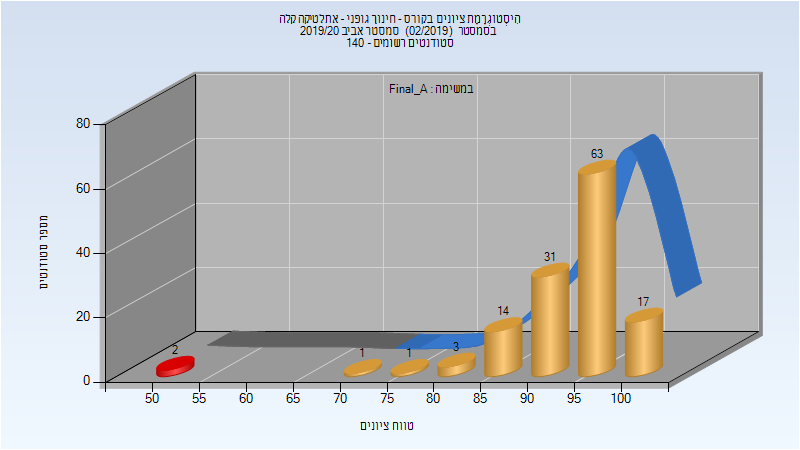
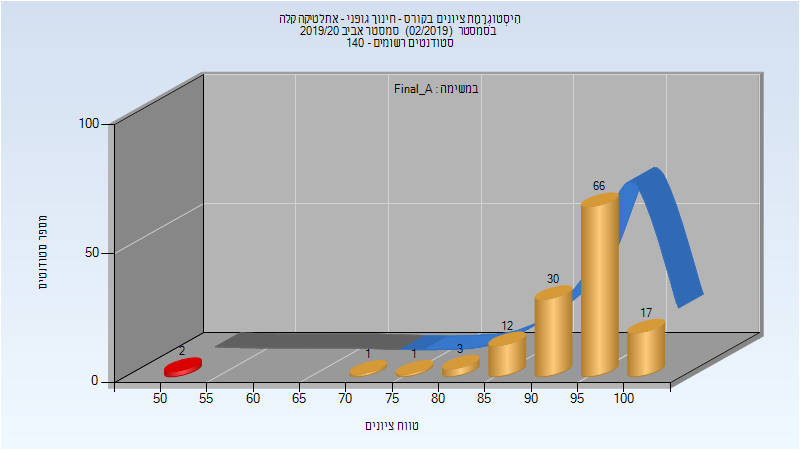
Deploy michael-maltsev/technion-histograms to github.com/michael-maltsev/technion-histograms.git:gh-pages

diff --git a/324513/index.html b/324513/index.html
@@ -155,5 +155,88 @@
 </tr>
 </tbody>
 </table>
+<h2>אביב 2020</h2>
+<table>
+<thead>
+<tr>
+<th>איש סגל</th>
+<th>תפקיד</th>
+</tr>
+</thead>
+<tbody>
+<tr>
+<td>סיבוני שרה</td>
+<td>מרצה - אחראי מקצוע</td>
+</tr>
+<tr>
+<td>בן ענת רוחמה</td>
+<td>סגל מנהלי - עם הרשאות מרצה אחראי</td>
+</tr>
+<tr>
+<td>הראל אילנה</td>
+<td>סגל מנהלי - עם הרשאות מרצה אחראי</td>
+</tr>
+<tr>
+<td>איסמן ליסה</td>
+<td>סגל מנהלי - עם הרשאות מרצה אחראי</td>
+</tr>
+<tr>
+<td>בורנשטיין יעל</td>
+<td>סגל מנהלי - עם הרשאות מרצה אחראי</td>
+</tr>
+</tbody>
+</table>
+<h3>סופי מועד א'</h3>
+<p><img src="201902/Final_A.png" alt="201902 Final_A" /></p>
+<table>
+<thead>
+<tr>
+<th>סטודנטים</th>
+<th>עברו/נכשלו</th>
+<th>אחוז עוברים</th>
+<th>ציון מינימלי</th>
+<th>ציון מקסימלי</th>
+<th>ממוצע</th>
+<th>חציון</th>
+</tr>
+</thead>
+<tbody>
+<tr>
+<td>17</td>
+<td>17/0</td>
+<td>100</td>
+<td>97</td>
+<td>100</td>
+<td>98.118</td>
+<td>98</td>
+</tr>
+</tbody>
+</table>
+<h3>סופי</h3>
+<p><img src="201902/Finals.png" alt="201902 Finals" /></p>
+<table>
+<thead>
+<tr>
+<th>סטודנטים</th>
+<th>עברו/נכשלו</th>
+<th>אחוז עוברים</th>
+<th>ציון מינימלי</th>
+<th>ציון מקסימלי</th>
+<th>ממוצע</th>
+<th>חציון</th>
+</tr>
+</thead>
+<tbody>
+<tr>
+<td>17</td>
+<td>17/0</td>
+<td>100</td>
+<td>97</td>
+<td>100</td>
+<td>98.118</td>
+<td>98</td>
+</tr>
+</tbody>
+</table>
   </body>
 </html>

diff --git a/394805/index.html b/394805/index.html
@@ -856,8 +856,34 @@
 <td>98</td>
 <td>53</td>
 <td>100</td>
-<td>93.78</td>
-<td>95.5</td>
+<td>93.947</td>
+<td>96</td>
+</tr>
+</tbody>
+</table>
+<h3>סופי</h3>
+<p><img src="201902/Finals.png" alt="201902 Finals" /></p>
+<table>
+<thead>
+<tr>
+<th>סטודנטים</th>
+<th>עברו/נכשלו</th>
+<th>אחוז עוברים</th>
+<th>ציון מינימלי</th>
+<th>ציון מקסימלי</th>
+<th>ממוצע</th>
+<th>חציון</th>
+</tr>
+</thead>
+<tbody>
+<tr>
+<td>131</td>
+<td>129/2</td>
+<td>98</td>
+<td>53</td>
+<td>100</td>
+<td>93.939</td>
+<td>96</td>
 </tr>
 </tbody>
 </table>

diff --git a/046746/index.html b/046746/index.html
@@ -142,7 +142,7 @@
 <td>91</td>
 <td>37</td>
 <td>97.5</td>
-<td>76.612</td>
+<td>76.66</td>
 <td>79.5</td>
 </tr>
 </tbody>

diff --git a/324513/README.md b/324513/README.md
@@ -44,3 +44,29 @@
 | ---- | ---- | ---- | ---- | ---- | ---- | ---- |
 | 21 | 21/0 | 100 | 95 | 98 | 97.476 | 98 |
 
+## אביב 2020
+
+| איש סגל | תפקיד |
+| ---- | ---- |
+| סיבוני שרה | מרצה - אחראי מקצוע |
+| בן ענת רוחמה | סגל מנהלי - עם הרשאות מרצה אחראי |
+| הראל אילנה | סגל מנהלי - עם הרשאות מרצה אחראי |
+| איסמן ליסה | סגל מנהלי - עם הרשאות מרצה אחראי |
+| בורנשטיין יעל | סגל מנהלי - עם הרשאות מרצה אחראי |
+
+### סופי מועד א'
+
+![201902 Final_A](201902/Final_A.png)
+
+| סטודנטים | עברו/נכשלו | אחוז עוברים | ציון מינימלי | ציון מקסימלי | ממוצע | חציון |
+| ---- | ---- | ---- | ---- | ---- | ---- | ---- |
+| 17 | 17/0 | 100 | 97 | 100 | 98.118 | 98 |
+
+### סופי
+
+![201902 Finals](201902/Finals.png)
+
+| סטודנטים | עברו/נכשלו | אחוז עוברים | ציון מינימלי | ציון מקסימלי | ממוצע | חציון |
+| ---- | ---- | ---- | ---- | ---- | ---- | ---- |
+| 17 | 17/0 | 100 | 97 | 100 | 98.118 | 98 |
+

diff --git a/394805/README.md b/394805/README.md
@@ -270,5 +270,13 @@
 
 | סטודנטים | עברו/נכשלו | אחוז עוברים | ציון מינימלי | ציון מקסימלי | ממוצע | חציון |
 | ---- | ---- | ---- | ---- | ---- | ---- | ---- |
-| 132 | 130/2 | 98 | 53 | 100 | 93.78 | 95.5 |
+| 132 | 130/2 | 98 | 53 | 100 | 93.947 | 96 |
+
+### סופי
+
+![201902 Finals](201902/Finals.png)
+
+| סטודנטים | עברו/נכשלו | אחוז עוברים | ציון מינימלי | ציון מקסימלי | ממוצע | חציון |
+| ---- | ---- | ---- | ---- | ---- | ---- | ---- |
+| 131 | 129/2 | 98 | 53 | 100 | 93.939 | 96 |
 

diff --git a/046746/README.md b/046746/README.md
@@ -40,5 +40,5 @@
 
 | סטודנטים | עברו/נכשלו | אחוז עוברים | ציון מינימלי | ציון מקסימלי | ממוצע | חציון |
 | ---- | ---- | ---- | ---- | ---- | ---- | ---- |
-| 125 | 114/11 | 91 | 37 | 97.5 | 76.612 | 79.5 |
+| 125 | 114/11 | 91 | 37 | 97.5 | 76.66 | 79.5 |
 
